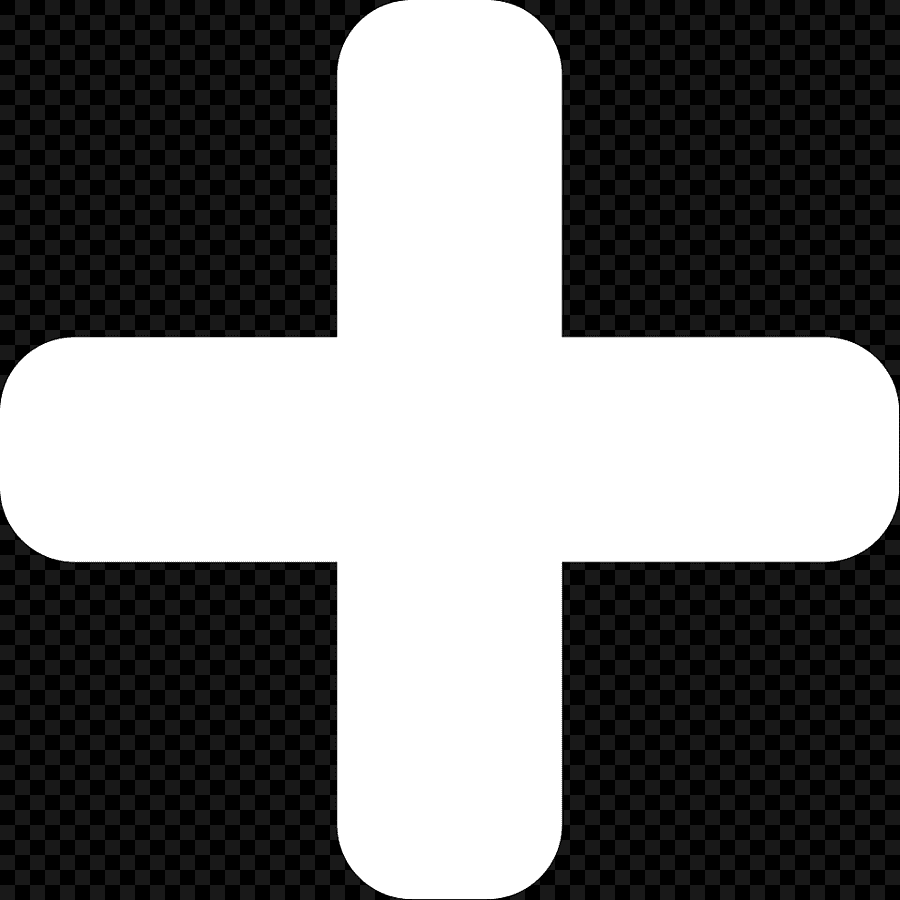
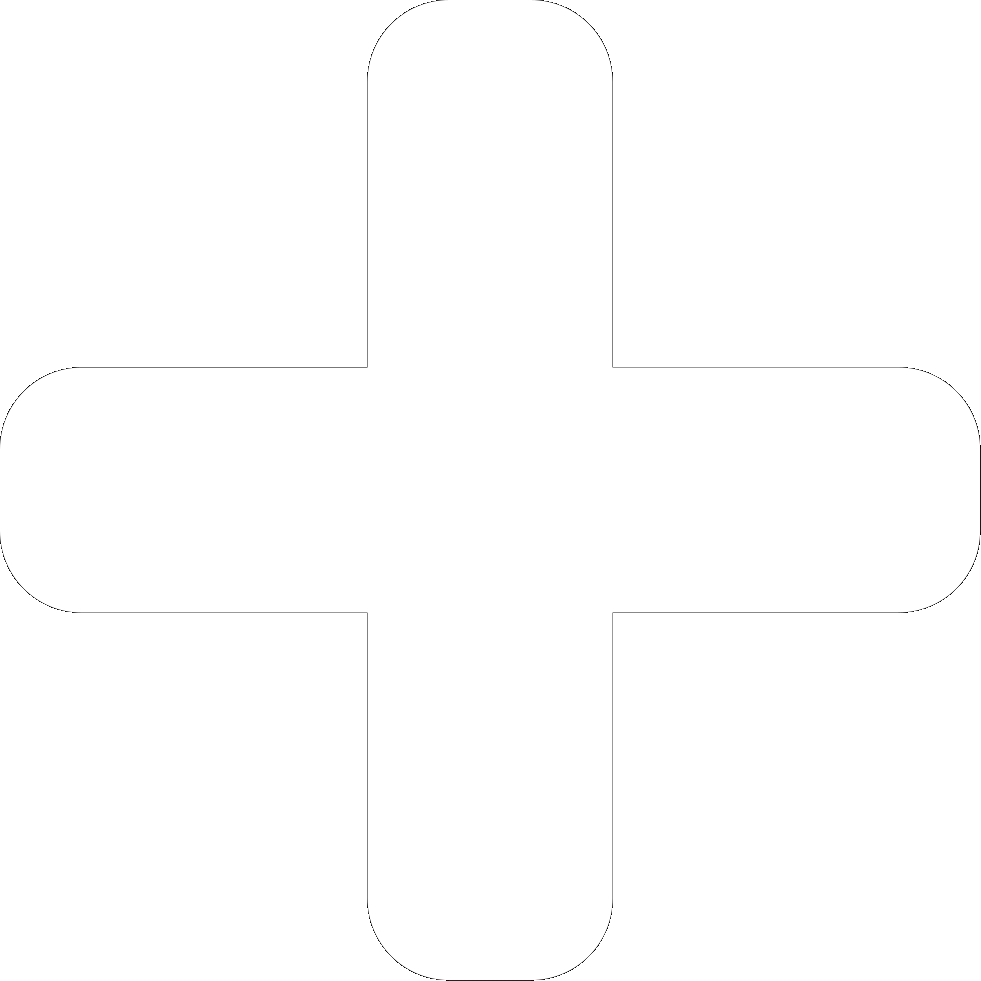
I made the stucture for the DashBoard page

diff --git a/styles.css b/styles.css
@@ -40,7 +40,7 @@ label{
     bottom: -30px;
     left: 50%;
     transform: translateX(-50%);
-    background-color: rgba(0, 0, 0, 0.336);
+    background-color: rgba(0, 190, 165, 0.744);
     color: white;
     padding: 6px 10px;
     font-size: 12px;

diff --git a/index.php b/index.php
@@ -15,13 +15,34 @@ include("database.php");
 </head>
 <body class="flex justify-center">
     <nav>
-        <a class="absolute top-3 border" href="manager.php" id="add"></a>
+        <a class="absolute top-3" href="manager.php" id="add"><img class="pointer-events-none" src="img/add_icon.png" width="50" alt="home_button"></a>
     </nav>
 
-    <main>
-        <section id="balance">
+    <main class="flex justify-center gap-20 flex-wrap p-20  w-[100vw] h-[100%] bg-cyan-400">
+        <section class="w-120 h-70 bg-white rounded-2xl shadow-[0_0_10px_gray]" id="balance">
             
         </section>
+        <section class="w-80 h-70 bg-white rounded-2xl shadow-[0_0_10px_gray]" id="month_stats">
+            
+        </section>
+        <table class="w-[100%] h-70 bg-white rounded-2xl shadow-[0_0_10px_gray] bg-black text-center gap-10" id="table">
+            <tr class="bg-gray-500 text-center">
+                <th>yo</th>
+                <th>yo</th>
+                <th>yo</th>
+                <th>yo</th>
+                <th>yo</th>
+            </tr>    
+            <tr class="bg-gray-400">
+                <td>ea</td>
+                <td>ea</td>
+                <td>ea</td>
+                <td>ea</td>
+                <td>ea</td>
+            </tr>    
+        </table>
+
+        
     </main>
     <?php
 
